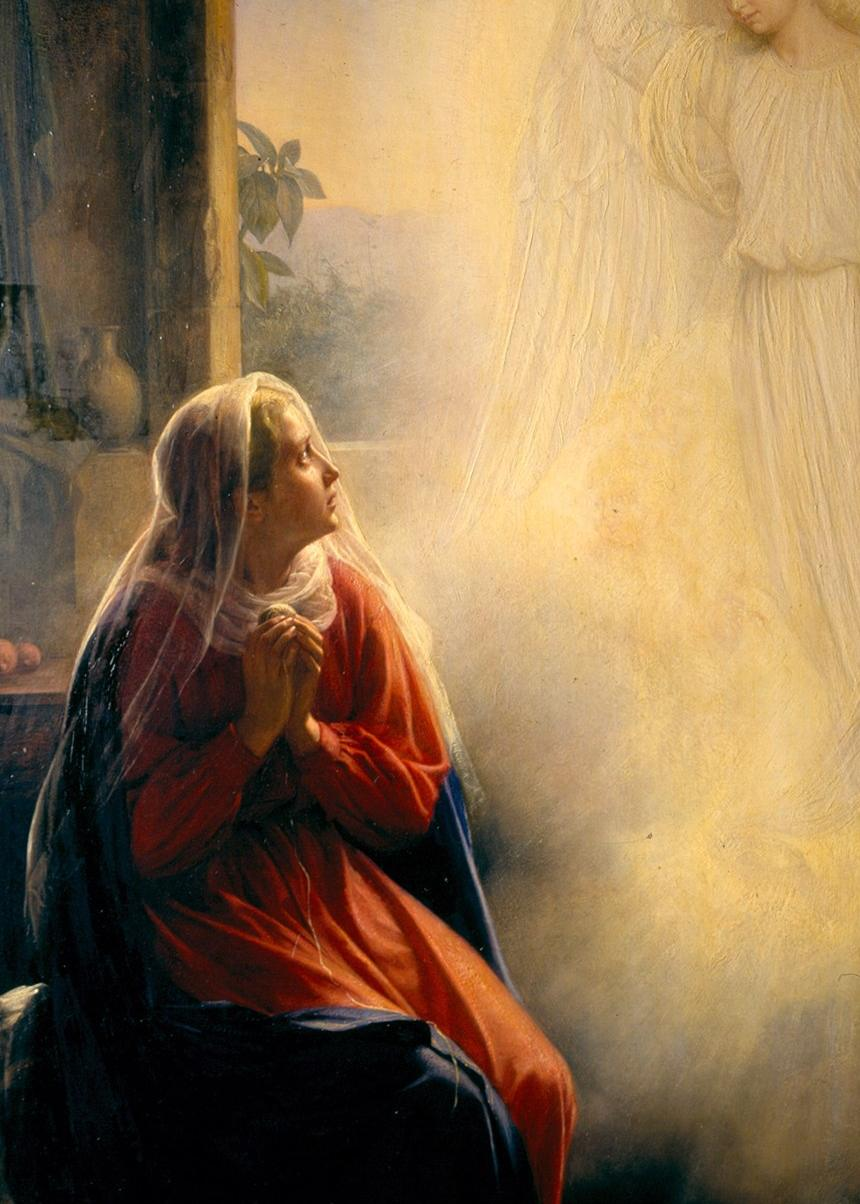
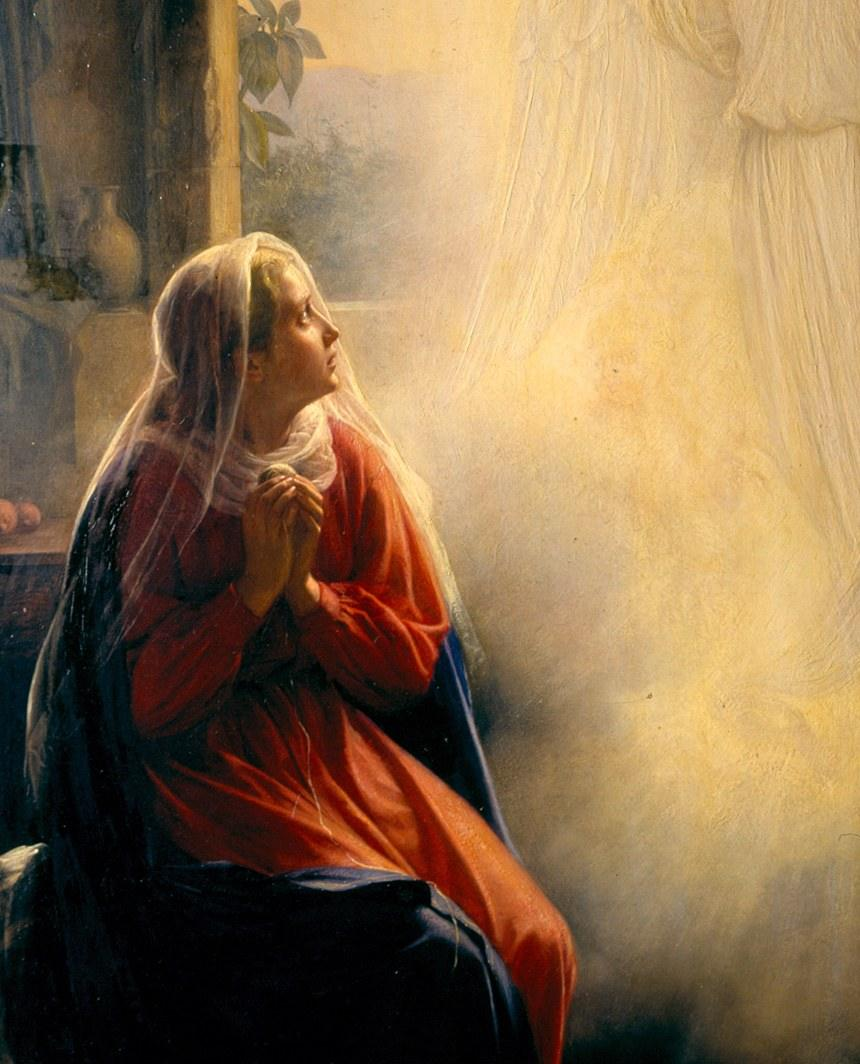
Las imágenes arrancan debajo de la isla del iPhone

diff --git a/Datos.js b/Datos.js
@@ -190,7 +190,8 @@ window.DATOS = {
      "obra": "La Anunciación",
      "imagen": "Arte/Gozosos-1.jpg",
      "ilustracion": "Ilustraciones/Gozosos-1.jpg",
-     "foco": "40% 40%",
+     "bajarIlustracion": 0,
+     "foco": "36% 40%",
      "zoom": 1.0
     },
     {
@@ -207,6 +208,7 @@ window.DATOS = {
      "obra": "La Visitación",
      "imagen": "Arte/Gozosos-2.jpg",
      "ilustracion": "Ilustraciones/Gozosos-2.jpg",
+     "bajarIlustracion": 0,
      "foco": "50% 22%",
      "zoom": 1.0
     },
@@ -223,6 +225,7 @@ window.DATOS = {
      "obra": "La adoración de los pastores",
      "imagen": "Arte/Gozosos-3.jpg",
      "ilustracion": "Ilustraciones/Gozosos-3.jpg",
+     "bajarIlustracion": 0,
      "foco": "46% 50%",
      "zoom": 1.0
     },
@@ -239,6 +242,7 @@ window.DATOS = {
      "obra": "El cántico de Simeón",
      "imagen": "Arte/Gozosos-4.jpg",
      "ilustracion": "Ilustraciones/Gozosos-4.jpg",
+     "bajarIlustracion": 0,
      "foco": "45% 40%",
      "zoom": 1.0
     },
@@ -255,6 +259,7 @@ window.DATOS = {
      "obra": "El hallazgo del Salvador en el Templo",
      "imagen": "Arte/Gozosos-5.jpg",
      "ilustracion": "Ilustraciones/Gozosos-5.jpg",
+     "bajarIlustracion": 0,
      "foco": "64% 45%",
      "zoom": 1.0
     }
@@ -279,6 +284,7 @@ window.DATOS = {
      "obra": "El bautismo de Cristo",
      "imagen": "Arte/Luminosos-1.jpg",
      "ilustracion": "Ilustraciones/Luminosos-1.jpg",
+     "bajarIlustracion": 0,
      "foco": "50% 22%",
      "zoom": 1.0
     },
@@ -295,6 +301,7 @@ window.DATOS = {
      "obra": "Las bodas de Caná",
      "imagen": "Arte/Luminosos-2.jpg",
      "ilustracion": "Ilustraciones/Luminosos-2.jpg",
+     "bajarIlustracion": 0,
      "foco": "50% 40%",
      "zoom": 1.0
     },
@@ -312,6 +319,7 @@ window.DATOS = {
      "obra": "El sermón de la montaña",
      "imagen": "Arte/Luminosos-3.jpg",
      "ilustracion": "Ilustraciones/Luminosos-3.jpg",
+     "bajarIlustracion": 0,
      "foco": "62% 30%",
      "zoom": 1.0
     },
@@ -329,6 +337,7 @@ window.DATOS = {
      "obra": "La Transfiguración",
      "imagen": "Arte/Luminosos-4.jpg",
      "ilustracion": "Ilustraciones/Luminosos-4.jpg",
+     "bajarIlustracion": 0,
      "foco": "50% 18%",
      "zoom": 1.0
     },
@@ -345,6 +354,7 @@ window.DATOS = {
      "obra": "La Última Cena",
      "imagen": "Arte/Luminosos-5.jpg",
      "ilustracion": "Ilustraciones/Luminosos-5.jpg",
+     "bajarIlustracion": 0,
      "foco": "50% 40%",
      "zoom": 1.0
     }
@@ -370,6 +380,7 @@ window.DATOS = {
      "obra": "Cristo en Getsemaní",
      "imagen": "Arte/Dolorosos-1.jpg",
      "ilustracion": "Ilustraciones/Dolorosos-1.jpg",
+     "bajarIlustracion": 0,
      "foco": "36% 50%",
      "zoom": 1.0
     },
@@ -386,6 +397,7 @@ window.DATOS = {
      "obra": "La flagelación de Cristo",
      "imagen": "Arte/Dolorosos-2.jpg",
      "ilustracion": "Ilustraciones/Dolorosos-2.jpg",
+     "bajarIlustracion": 36,
      "foco": "50% 38%",
      "zoom": 1.0
     },
@@ -403,6 +415,7 @@ window.DATOS = {
      "obra": "La coronación de espinas",
      "imagen": "Arte/Dolorosos-3.jpg",
      "ilustracion": "Ilustraciones/Dolorosos-3.jpg",
+     "bajarIlustracion": 0,
      "foco": "46% 42%",
      "zoom": 1.0
     },
@@ -420,6 +433,7 @@ window.DATOS = {
      "obra": "Cristo camino del Calvario",
      "imagen": "Arte/Dolorosos-4.jpg",
      "ilustracion": "Ilustraciones/Dolorosos-4.jpg",
+     "bajarIlustracion": 0,
      "foco": "32% 50%",
      "zoom": 1.0
     },
@@ -437,6 +451,7 @@ window.DATOS = {
      "obra": "Cristo crucificado",
      "imagen": "Arte/Dolorosos-5.jpg",
      "ilustracion": "Ilustraciones/Dolorosos-5.jpg",
+     "bajarIlustracion": 0,
      "foco": "50% 22%",
      "zoom": 1.0
     }
@@ -461,6 +476,7 @@ window.DATOS = {
      "obra": "La Resurrección",
      "imagen": "Arte/Gloriosos-1.jpg",
      "ilustracion": "Ilustraciones/Gloriosos-1.jpg",
+     "bajarIlustracion": 0,
      "foco": "50% 22%",
      "zoom": 1.0
     },
@@ -477,6 +493,7 @@ window.DATOS = {
      "obra": "La Ascensión",
      "imagen": "Arte/Gloriosos-2.jpg",
      "ilustracion": "Ilustraciones/Gloriosos-2.jpg",
+     "bajarIlustracion": 0,
      "foco": "50% 26%",
      "zoom": 1.0
     },
@@ -494,6 +511,7 @@ window.DATOS = {
      "obra": "Pentecostés",
      "imagen": "Arte/Gloriosos-3.jpg",
      "ilustracion": "Ilustraciones/Gloriosos-3.jpg",
+     "bajarIlustracion": 0,
      "foco": "50% 45%",
      "zoom": 1.0
     },
@@ -510,6 +528,7 @@ window.DATOS = {
      "obra": "La Asunción de la Virgen",
      "imagen": "Arte/Gloriosos-4.jpg",
      "ilustracion": "Ilustraciones/Gloriosos-4.jpg",
+     "bajarIlustracion": 0,
      "foco": "50% 25%",
      "zoom": 1.0
     },
@@ -526,6 +545,7 @@ window.DATOS = {
      "obra": "La coronación de la Virgen",
      "imagen": "Arte/Gloriosos-5.jpg",
      "ilustracion": "Ilustraciones/Gloriosos-5.jpg",
+     "bajarIlustracion": 0,
      "foco": "50% 35%",
      "zoom": 1.0
     }

diff --git a/Estilos.css b/Estilos.css
@@ -4,6 +4,7 @@
 .dia{--bg:#f6f6f4;--rgb:246,246,244;--ink:#1b1d26;--soft:#34363f;--muted:#5a5c66;--accent:#e8b86b;--on:#1a1408;--mark:#a8741f;--bead:rgba(27,29,38,.16);--line:rgba(27,29,38,.22);--glow:rgba(246,246,244,.75);--hoja:#ffffff}
 
 *{box-sizing:border-box;margin:0;padding:0}
+:root{--seguro:env(safe-area-inset-top,0px)}
 html,body{background:var(--bg);color:var(--ink)}
 body{font-family:Manrope,system-ui,sans-serif;line-height:1.5;-webkit-font-smoothing:antialiased;-webkit-tap-highlight-color:transparent;transition:background .4s}
 button{font:inherit;color:inherit;background:none;border:0;cursor:pointer;text-align:inherit}
@@ -16,13 +17,15 @@ button{font:inherit;color:inherit;background:none;border:0;cursor:pointer;text-a
 
 /* Pintura de fondo */
 .hero{position:absolute;inset:0 0 34% 0;overflow:hidden}
-.arte{position:absolute;inset:0;background-size:cover;background-repeat:no-repeat;transform:scale(var(--z,1));opacity:0;transition:opacity 1s ease}
+/* La imagen arranca debajo de la isla del iPhone y de los botones de arriba, con el borde
+   fundido en el fondo, y el acercamiento crece hacia abajo para no esconder las caras. */
+.arte{position:absolute;left:0;right:0;top:calc(var(--seguro) + 24px + var(--extra,0px));height:100%;background-size:cover;background-repeat:no-repeat;transform:scale(var(--z,1));transform-origin:50% 0;opacity:0;transition:opacity 1s ease;-webkit-mask-image:linear-gradient(180deg,transparent 0,#000 72px);mask-image:linear-gradient(180deg,transparent 0,#000 72px)}
 .arte.on{opacity:1}
 .fundido{position:absolute;inset:-1px 0;background:linear-gradient(180deg,rgba(var(--rgb),.15) 0%,rgba(var(--rgb),0) 26%,rgba(var(--rgb),.72) 64%,rgba(var(--rgb),.96) 86%,var(--bg) 100%)}
 @media (prefers-reduced-motion:no-preference){.arte{animation:acercar 45s ease-in-out infinite alternate}}
-@keyframes acercar{from{transform:scale(calc(var(--z,1)*1.02))}to{transform:scale(calc(var(--z,1)*1.13)) translateY(-2%)}}
+@keyframes acercar{from{transform:scale(calc(var(--z,1)*1.02))}to{transform:scale(calc(var(--z,1)*1.13))}}
 
-.barra{position:relative;z-index:5;display:flex;justify-content:space-between;align-items:center;padding:calc(env(safe-area-inset-top) + 14px) 18px 0}
+.barra{position:relative;z-index:5;display:flex;justify-content:space-between;align-items:center;padding:calc(var(--seguro) + 14px) 18px 0}
 .ic{width:42px;height:42px;border-radius:50%;display:grid;place-items:center;color:var(--ink);background:rgba(var(--rgb),.38);backdrop-filter:blur(10px);-webkit-backdrop-filter:blur(10px);font-size:20px}
 .ic svg{width:22px;height:22px}
 .ic.chico{width:34px;height:34px;font-size:17px;background:transparent;backdrop-filter:none;-webkit-backdrop-filter:none;color:var(--muted)}
@@ -88,7 +91,7 @@ button{font:inherit;color:inherit;background:none;border:0;cursor:pointer;text-a
 .enlace{font-size:13px;color:var(--muted);padding:6px}
 
 /* Mapa */
-.mapa{position:absolute;inset:0;z-index:4;background:var(--bg);display:flex;flex-direction:column;padding:calc(env(safe-area-inset-top) + 76px) 26px calc(env(safe-area-inset-bottom) + 24px);opacity:0;pointer-events:none;transition:opacity .35s}
+.mapa{position:absolute;inset:0;z-index:4;background:var(--bg);display:flex;flex-direction:column;padding:calc(var(--seguro) + 76px) 26px calc(env(safe-area-inset-bottom) + 24px);opacity:0;pointer-events:none;transition:opacity .35s}
 .con-mapa .mapa{opacity:1;pointer-events:auto}
 .mapa .mapa-t{font-size:26px;line-height:1.1;margin:2px 0 6px}
 .mapa svg{flex:1;width:100%;min-height:0}

diff --git a/App.js b/App.js
@@ -156,8 +156,8 @@ function luz(gid) {
   return `background-image:radial-gradient(ellipse 70% 60% at 50% -4%,rgba(255,244,222,.42),transparent 72%),radial-gradient(ellipse 160% 120% at 50% -14%,rgba(${c},.75),rgba(${c},.32) 45%,rgba(${c},.08) 72%,transparent 90%)`;
 }
 function estiloArte(mis) {
-  if (cfg.imagenes === 'ninguna') return luz(grupoDe(mis)) + ';--z:1';
-  if (cfg.imagenes === 'ilustraciones' && mis.ilustracion) return `background-image:url('${mis.ilustracion}');background-position:50% 30%;--z:1`;
+  if (cfg.imagenes === 'ninguna') return luz(grupoDe(mis)) + ';--z:1;top:0;-webkit-mask-image:none;mask-image:none';
+  if (cfg.imagenes === 'ilustraciones' && mis.ilustracion) return `background-image:url('${mis.ilustracion}');background-position:50% 30%;--z:1;--extra:${mis.bajarIlustracion || 0}px`;
   return `background-image:url('${mis.imagen}');background-position:${mis.foco};--z:${mis.zoom}`;
 }
 const conCredito = mis => cfg.imagenes === 'pinturas' || (cfg.imagenes === 'ilustraciones' && !mis.ilustracion);

diff --git a/index.html b/index.html
@@ -11,11 +11,11 @@
 <link rel="preconnect" href="https://fonts.gstatic.com" crossorigin>
 <link href="https://fonts.googleapis.com/css2?family=Cormorant+Garamond:ital,wght@0,500;1,500;1,700&family=Manrope:wght@400;500;600&display=swap" rel="stylesheet">
 <link rel="stylesheet" href="https://cdn.jsdelivr.net/npm/@tabler/icons-webfont@3.19.0/dist/tabler-icons.min.css">
-<link rel="stylesheet" href="Estilos.css?v=3e1e235c">
+<link rel="stylesheet" href="Estilos.css?v=67298396">
 </head>
 <body class="noche">
 <main id="app"></main>
-<script src="Datos.js?v=3e1e235c"></script>
-<script src="App.js?v=3e1e235c"></script>
+<script src="Datos.js?v=67298396"></script>
+<script src="App.js?v=67298396"></script>
 </body>
 </html>
